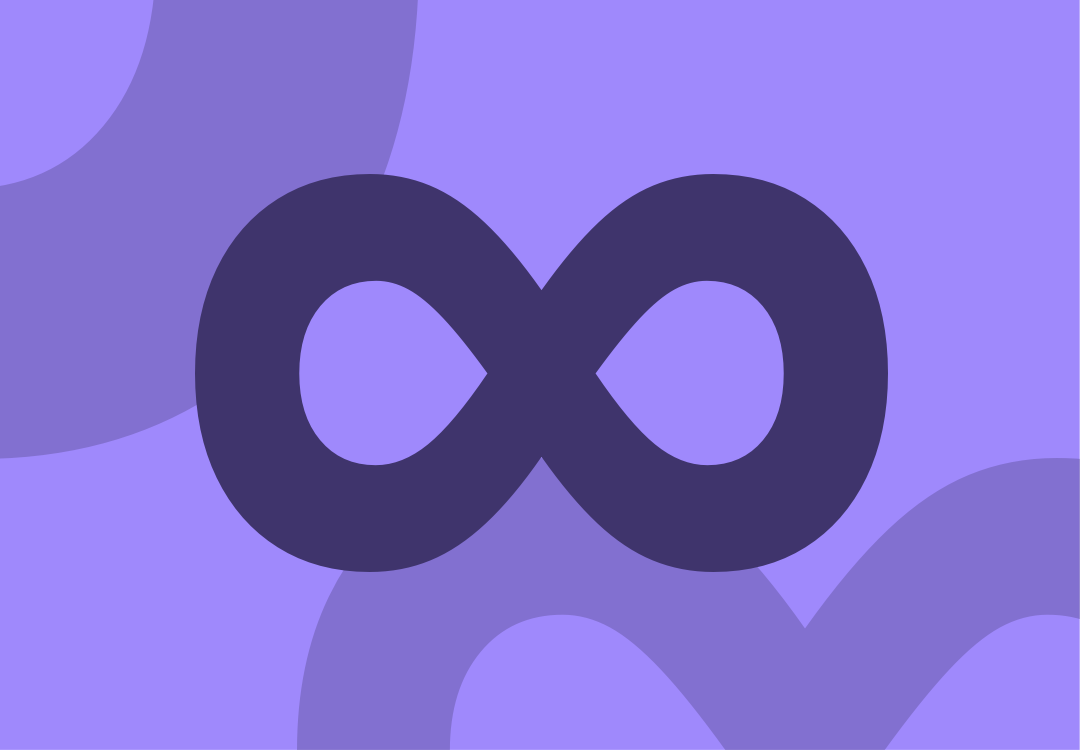
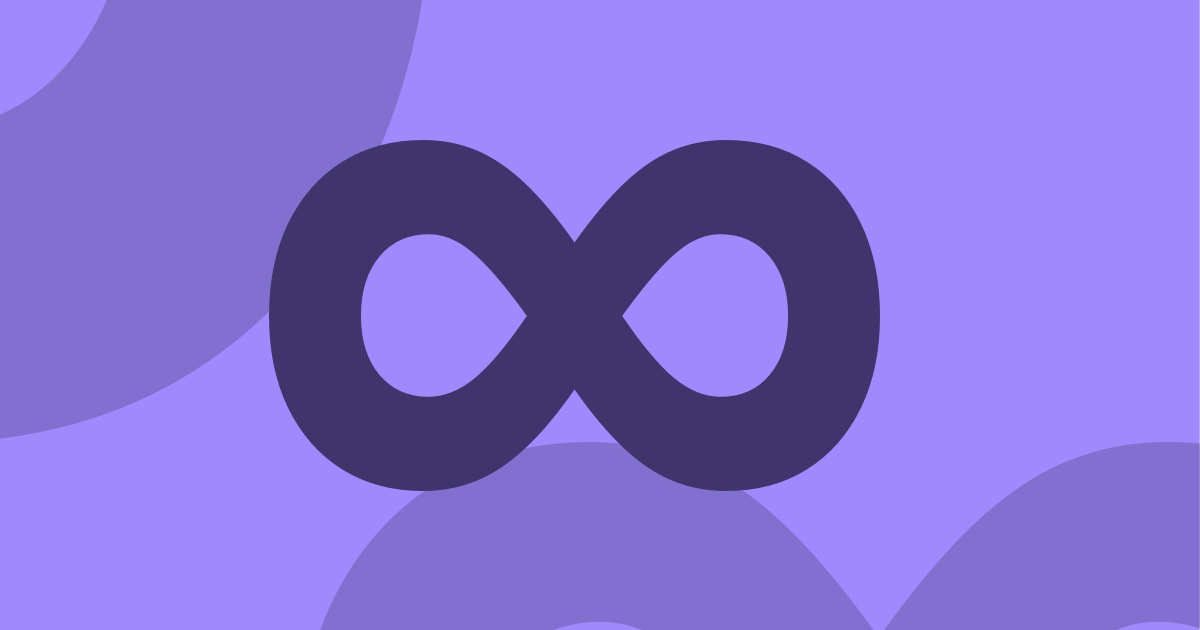
Infinity og

diff --git a/public/blog/unlimited-savings-with-belt-infinity-mode.html b/public/blog/unlimited-savings-with-belt-infinity-mode.html
@@ -10,11 +10,11 @@
 
 		<meta property="og:title" content="Unlimited savings with Belt's Infinity Mode">
 		<meta property="og:description" content="Financial Fast app for iPhone and Apple Watch. Savings without effort. Download now.">
-		<meta property="og:image" content="https://beltsaving.com/og.png">
+		<meta property="og:image" content="https://beltsaving.com/blog/img/infinity.png">
 		<meta name="twitter:card" content="summary_large_image">
 		<meta name="twitter:title" content="Unlimited savings with Belt's Infinity Mode">
 		<meta name="twitter:description" content="Financial Fast app for iPhone and Apple Watch. Savings without effort. Download now.">
-		<meta name="twitter:image" content="https://beltsaving.com/og.png">
+		<meta name="twitter:image" content="https://beltsaving.com/blog/img/infinity.png">
 		<!-- Global site tag (gtag.js) - Google Analytics -->
 		<script async src="https://www.googletagmanager.com/gtag/js?id=G-6KGJV961DE"></script>
 		<script>
